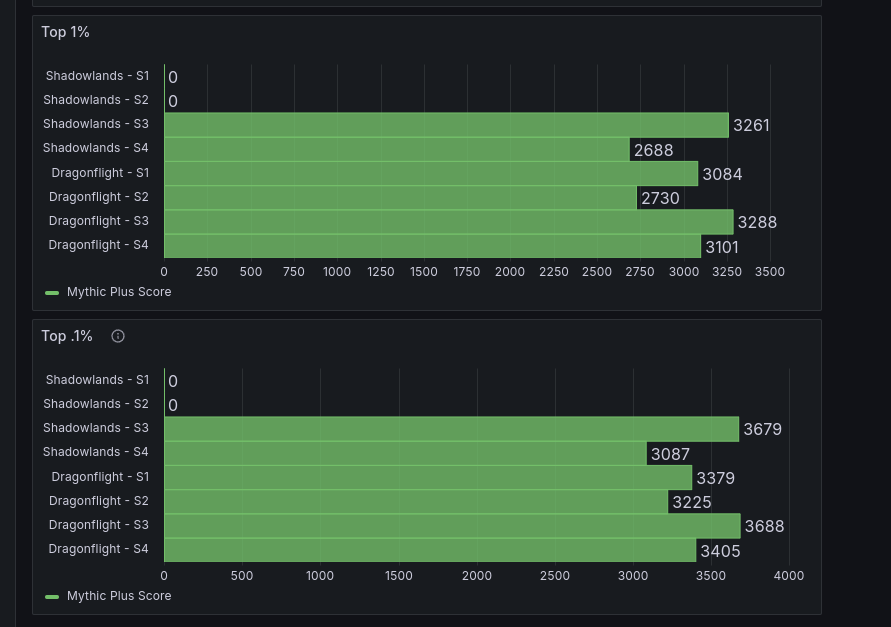
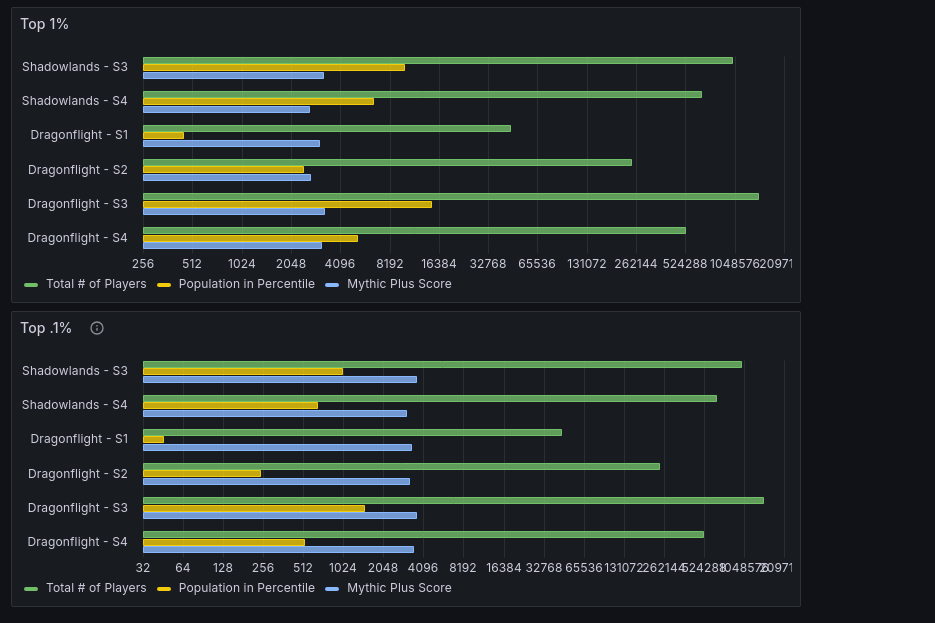
Add grafana queries

diff --git a/README.md b/README.md
@@ -88,6 +88,7 @@ To get started with this project, you'll need to set up several AWS services. He
     - Create a glue job called `Data Quality Raiderio Table` using [data_quality_raiderio_table.py](https://github.com/bjellesma/raiderio-data/blob/main/raiderio-glue-jobs/data_quality_raiderio_table.py)
     - Create a glue job called `Publish Raiderio Table` using [create_raiderio_table.py](https://github.com/bjellesma/raiderio-data/blob/main/raiderio-glue-jobs/publish_raiderio_table.py)
 3. Set up Grafana for visualization. Create a dashboard with the following panels
+    - All scales are bar charts with a logarithmic x axis in order to see the numbers better
     - Top 40% Panel will be a bar chart using the [Top 40% Query](https://github.com/bjellesma/raiderio-data/blob/main/grafana-queries/top40.sql)
     - Top 25% Panel will be a bar chart using the [Top 25% Query](https://github.com/bjellesma/raiderio-data/blob/main/grafana-queries/top25.sql)
     - Top 10% Panel will be a bar chart using the [Top 10% Query](https://github.com/bjellesma/raiderio-data/blob/main/grafana-queries/top10.sql)
